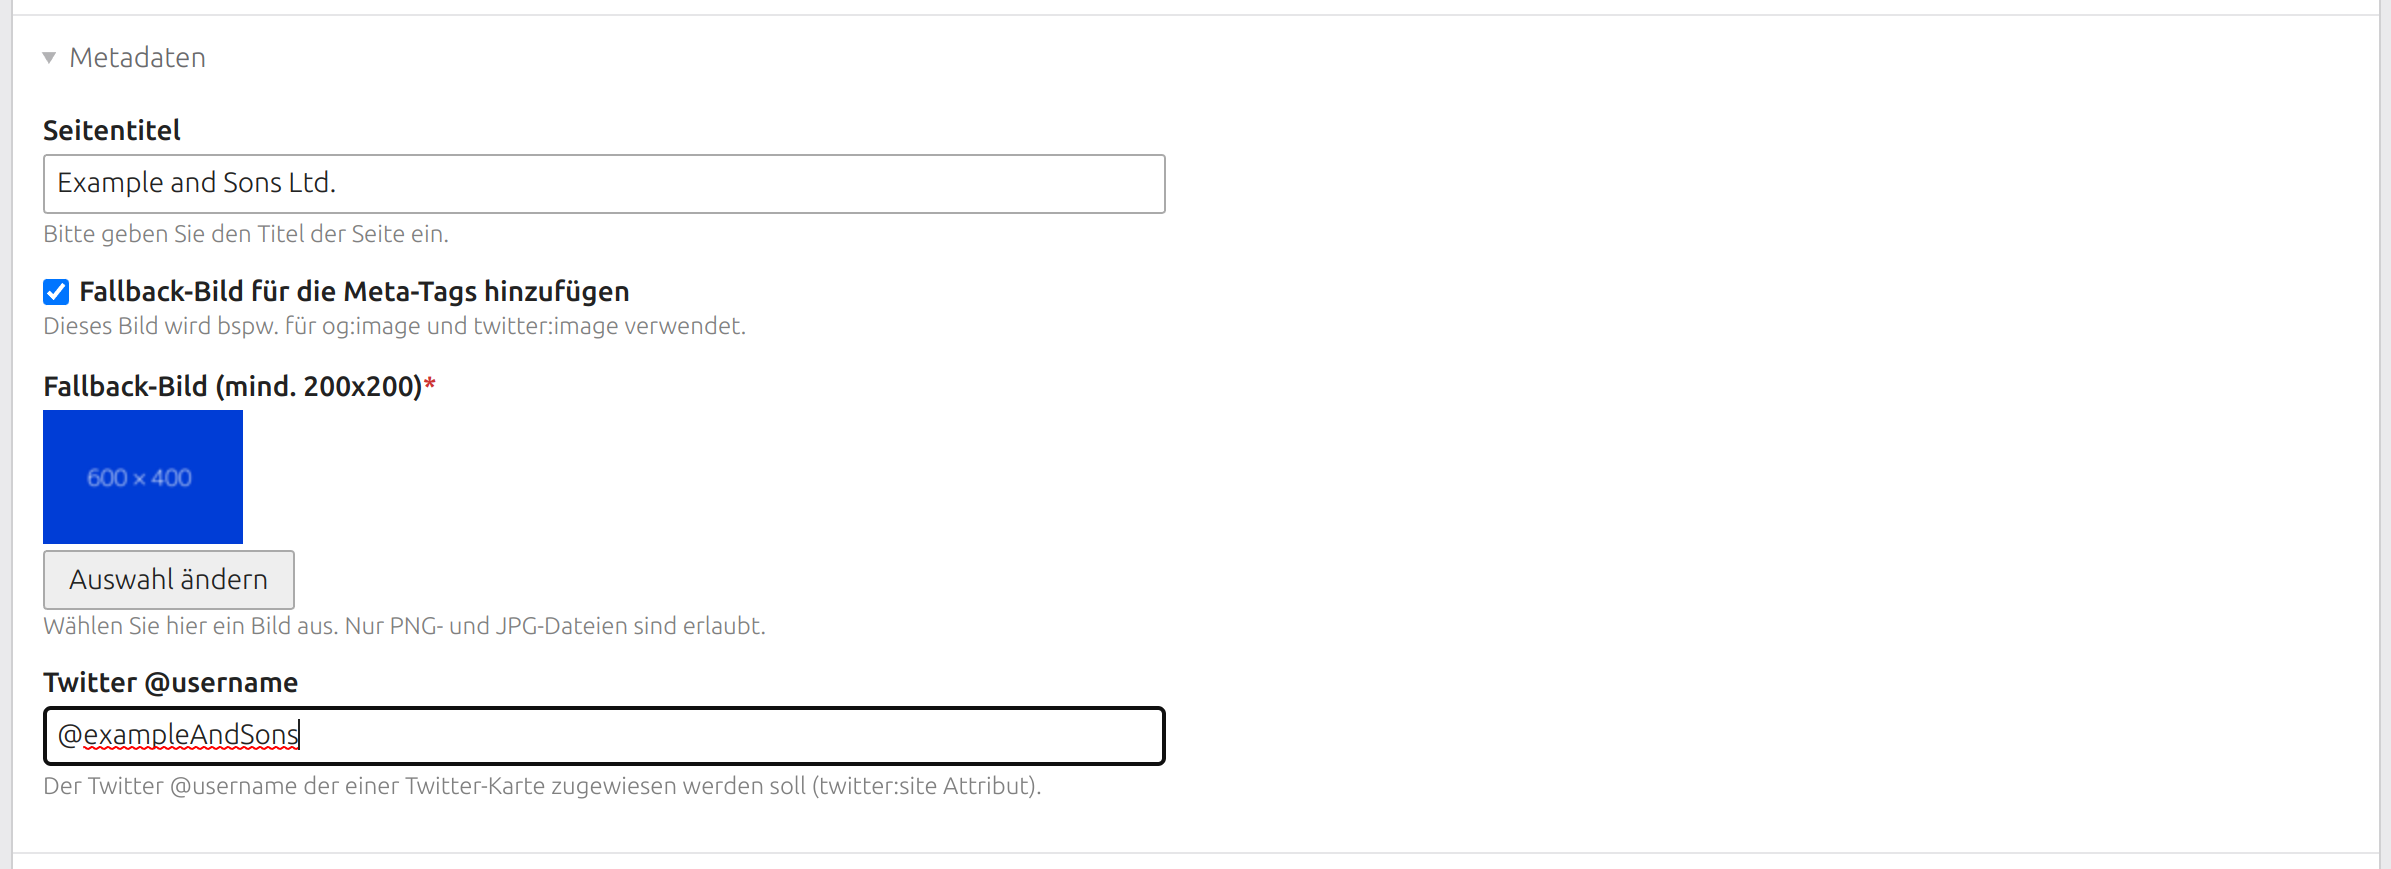
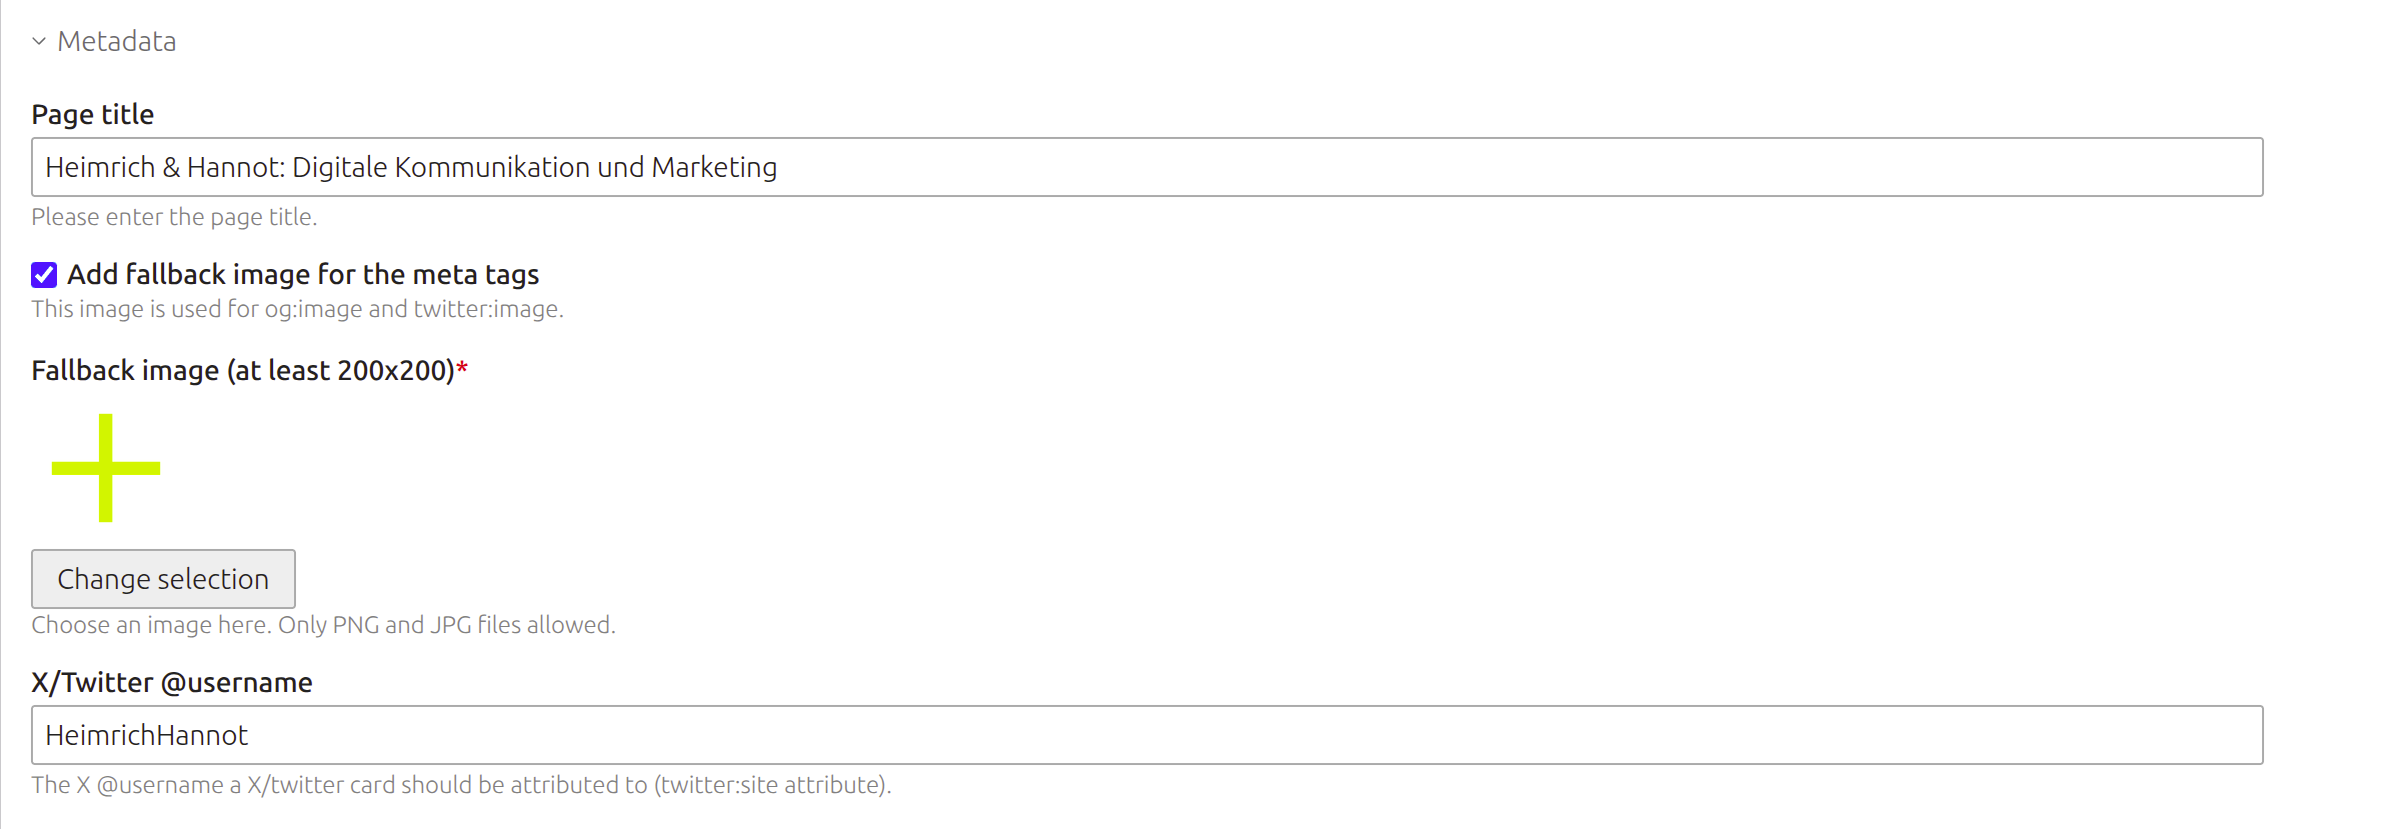
remove config, update readme

diff --git a/src/HeimrichHannotContaoHeadBundle.php b/src/HeimrichHannotContaoHeadBundle.php
@@ -8,7 +8,6 @@
 
 namespace HeimrichHannot\HeadBundle;
 
-use Symfony\Component\Config\Definition\Configurator\DefinitionConfigurator;
 use Symfony\Component\DependencyInjection\ContainerBuilder;
 use Symfony\Component\DependencyInjection\Loader\Configurator\ContainerConfigurator;
 use Symfony\Component\HttpKernel\Bundle\AbstractBundle;
@@ -17,27 +16,9 @@ class HeimrichHannotContaoHeadBundle extends AbstractBundle
 {
     protected string $extensionAlias = 'huh_head';
 
-    public function configure(DefinitionConfigurator $definition): void
-    {
-        $definition->rootNode()
-            ->children()
-                ->booleanNode('use_contao_head')
-                    ->defaultFalse()
-                    ->info('Use the default head variables for title,base,robots and description instead of removing them from the page template.')
-                ->end()
-                ->booleanNode('use_contao_variables')
-                    ->defaultFalse()
-                    ->info('Use the default contao template variables for outputting head tags instead of the meta function.')
-                ->end()
-            ->end()
-        ;
-    }
-
     public function loadExtension(array $config, ContainerConfigurator $container, ContainerBuilder $builder): void
     {
-        $builder->setParameter('huh_head', $config);
-
-        $container->import('../config/services.yaml');
+        $container->import('../config/services.php');
     }
 
     public function getPath(): string

diff --git a/src/EventListener/Contao/ReplaceDynamicScriptTagsListener.php b/src/EventListener/Contao/ReplaceDynamicScriptTagsListener.php
@@ -13,31 +13,16 @@ use Contao\CoreBundle\Framework\ContaoFramework;
 use HeimrichHannot\HeadBundle\Manager\HtmlHeadTagManager;
 
 #[AsHook('replaceDynamicScriptTags')]
-class ReplaceDynamicScriptTagsListener
+readonly class ReplaceDynamicScriptTagsListener
 {
     public function __construct(
-        private array $bundleConfig,
-        private readonly HtmlHeadTagManager $headTagManager,
+        private HtmlHeadTagManager $headTagManager,
     ) {
     }
 
-    /**
-     * @noinspection PhpUnnecessaryLocalVariableInspection
-     */
     public function __invoke(string $buffer): string
     {
-        $buffer = $this->addHeadTags($buffer);
-
-        return $buffer;
-    }
-
-    private function addHeadTags(string $buffer): string
-    {
-        if ($this->bundleConfig['use_contao_variables'] ?? false) {
-            return $this->replace($buffer, 'TL_HEAD', $this->headTagManager->renderTags());
-        }
-
-        return $buffer;
+        return $this->replace($buffer, 'TL_HEAD', $this->headTagManager->renderTags());
     }
 
     private function replace(string $buffer, string $tag, string $content): string

diff --git a/src/EventListener/Contao/GeneratePageListener.php b/src/EventListener/Contao/GeneratePageListener.php
@@ -16,20 +16,16 @@ use Contao\CoreBundle\Routing\ResponseContext\ResponseContextAccessor;
 use Contao\LayoutModel;
 use Contao\PageModel;
 use Contao\PageRegular;
-use HeimrichHannot\HeadBundle\HeadTag\BaseTag;
-use HeimrichHannot\HeadBundle\HeadTag\Meta\CharsetMetaTag;
 use HeimrichHannot\HeadBundle\HeadTag\Meta\PropertyMetaTag;
 use HeimrichHannot\HeadBundle\HeadTag\MetaTag;
 use HeimrichHannot\HeadBundle\Helper\TagHelper;
 use HeimrichHannot\HeadBundle\Manager\HtmlHeadTagManager;
 use HeimrichHannot\UtilsBundle\Util\Utils;
 use Psr\Container\ContainerExceptionInterface;
-use Psr\Container\ContainerInterface;
 use Psr\Container\NotFoundExceptionInterface;
 use Spatie\SchemaOrg\BaseType;
 use Symfony\Component\HttpFoundation\Request;
 use Symfony\Component\HttpFoundation\RequestStack;
-use Symfony\Contracts\Service\ServiceSubscriberInterface;
 
 #[AsHook('generatePage', priority: -10)]
 readonly class GeneratePageListener

diff --git a/config/services.php b/config/services.php
@@ -1,0 +1,23 @@
+<?php
+
+use HeimrichHannot\HeadBundle\HeadTag\HeadTagFactory;
+use Symfony\Component\DependencyInjection\Loader\Configurator\ContainerConfigurator;
+
+return static function (ContainerConfigurator $container): void {
+    $services = $container->services()
+        ->defaults()
+            ->autowire()
+            ->autoconfigure()
+    ;
+
+    $services->load('HeimrichHannot\\HeadBundle\\', '../src/{EventListener,Helper,Twig}/*');
+
+    $services->load('HeimrichHannot\\HeadBundle\\Manager\\', '../src/Manager/*')
+        ->public()
+        ->autoconfigure(false)
+    ;
+
+    $services->set(HeadTagFactory::class)
+        ->autoconfigure()
+    ;
+};

diff --git a/README.md b/README.md
@@ -7,7 +7,6 @@ Enhance your website's SEO and social media presence with more meta- and structu
 
 ## Features
 - Set open graph tags like og:title, og:description, og:url and og:image
-- 
 - Provide a nice api to set head tags like meta, title, base, link
 - Provide additional schema.org json-ld data
 - Sets important meta tags like og:title, og:description, og:url and twitter:card out of the box
@@ -20,18 +19,11 @@ Enhance your website's SEO and social media presence with more meta- and structu
 
 1. Install with composer
 2. Update your database
-3. Set following config variables (if you don't need the legacy implementation)
-
-    ```yaml
-    huh_head:
-      use_contao_head: true
-      use_contao_variables: true
-    ```
-4. Optional: Set fallback image and twitter author in root page(s)
+3. Optional: Set fallback image and twitter author in root page(s)
 
 ### Add additional meta tags
 
-In your root page, you can activate to add fallback image (og:image and twitter:image) and twitter username (twitter:site) meta tags to you web page.
+In your root page, you can activate to add fallback image (og:image) and X/Twitter username (twitter:site) meta tags to you web page.
 
 ![Screenshot Meta Data Settings](docs%2Fimg%2Fscreenshot_backend_meta_data.png)
 
@@ -171,17 +163,13 @@ class SomeEventListener
 
 ## Template output
 
-Be sure, `huh_head.use_contao_head` and/or `huh_head.use_contao_variables` are not set to true.
-
-Output `$this->meta()` in your fe_page template ()
+Output the `TL_HEAD` dynamic script tag in your `fe_page` template:
 
 ```
-<?php $this->block('meta'); ?>
-    <?= $this->meta(); ?>
-<?php $this->endblock(); ?>
+[[TL_HEAD]]
 ```
 
-Make sure, that you remove (are outputted by $this->meta() if `huh_head.use_contao_head` is not true):
+Make sure that you remove the following tags from custom `fe_page` templates, because they are output by `TL_HEAD`:
 
 ```
 <meta charset="<?= $this->charset ?>">
@@ -190,8 +178,6 @@ Make sure, that you remove (are outputted by $this->meta() if `huh_head.use_cont
 <meta name="robots" content="<?= $this->robots ?>">
 <meta name="description" content="<?= $this->description ?>">
 ```
-
-The `meta` function accepts currently one parameter that can contain tag names (array) that should be skipped.
 
 ## Developers
 
@@ -233,17 +219,4 @@ class SomeEventListener {
         }
     }
 }
-```
-
-## Config reference
-
-```yaml
-# Default configuration for extension with alias: "huh_head"
-huh_head:
-
-    # Use the default head variables for title,base,robots and description instead of removing them from the page template.
-    use_contao_head:      false
-
-    # Use the default contao template variables for outputting head tags instead of the meta function.
-    use_contao_variables: false
 ```
